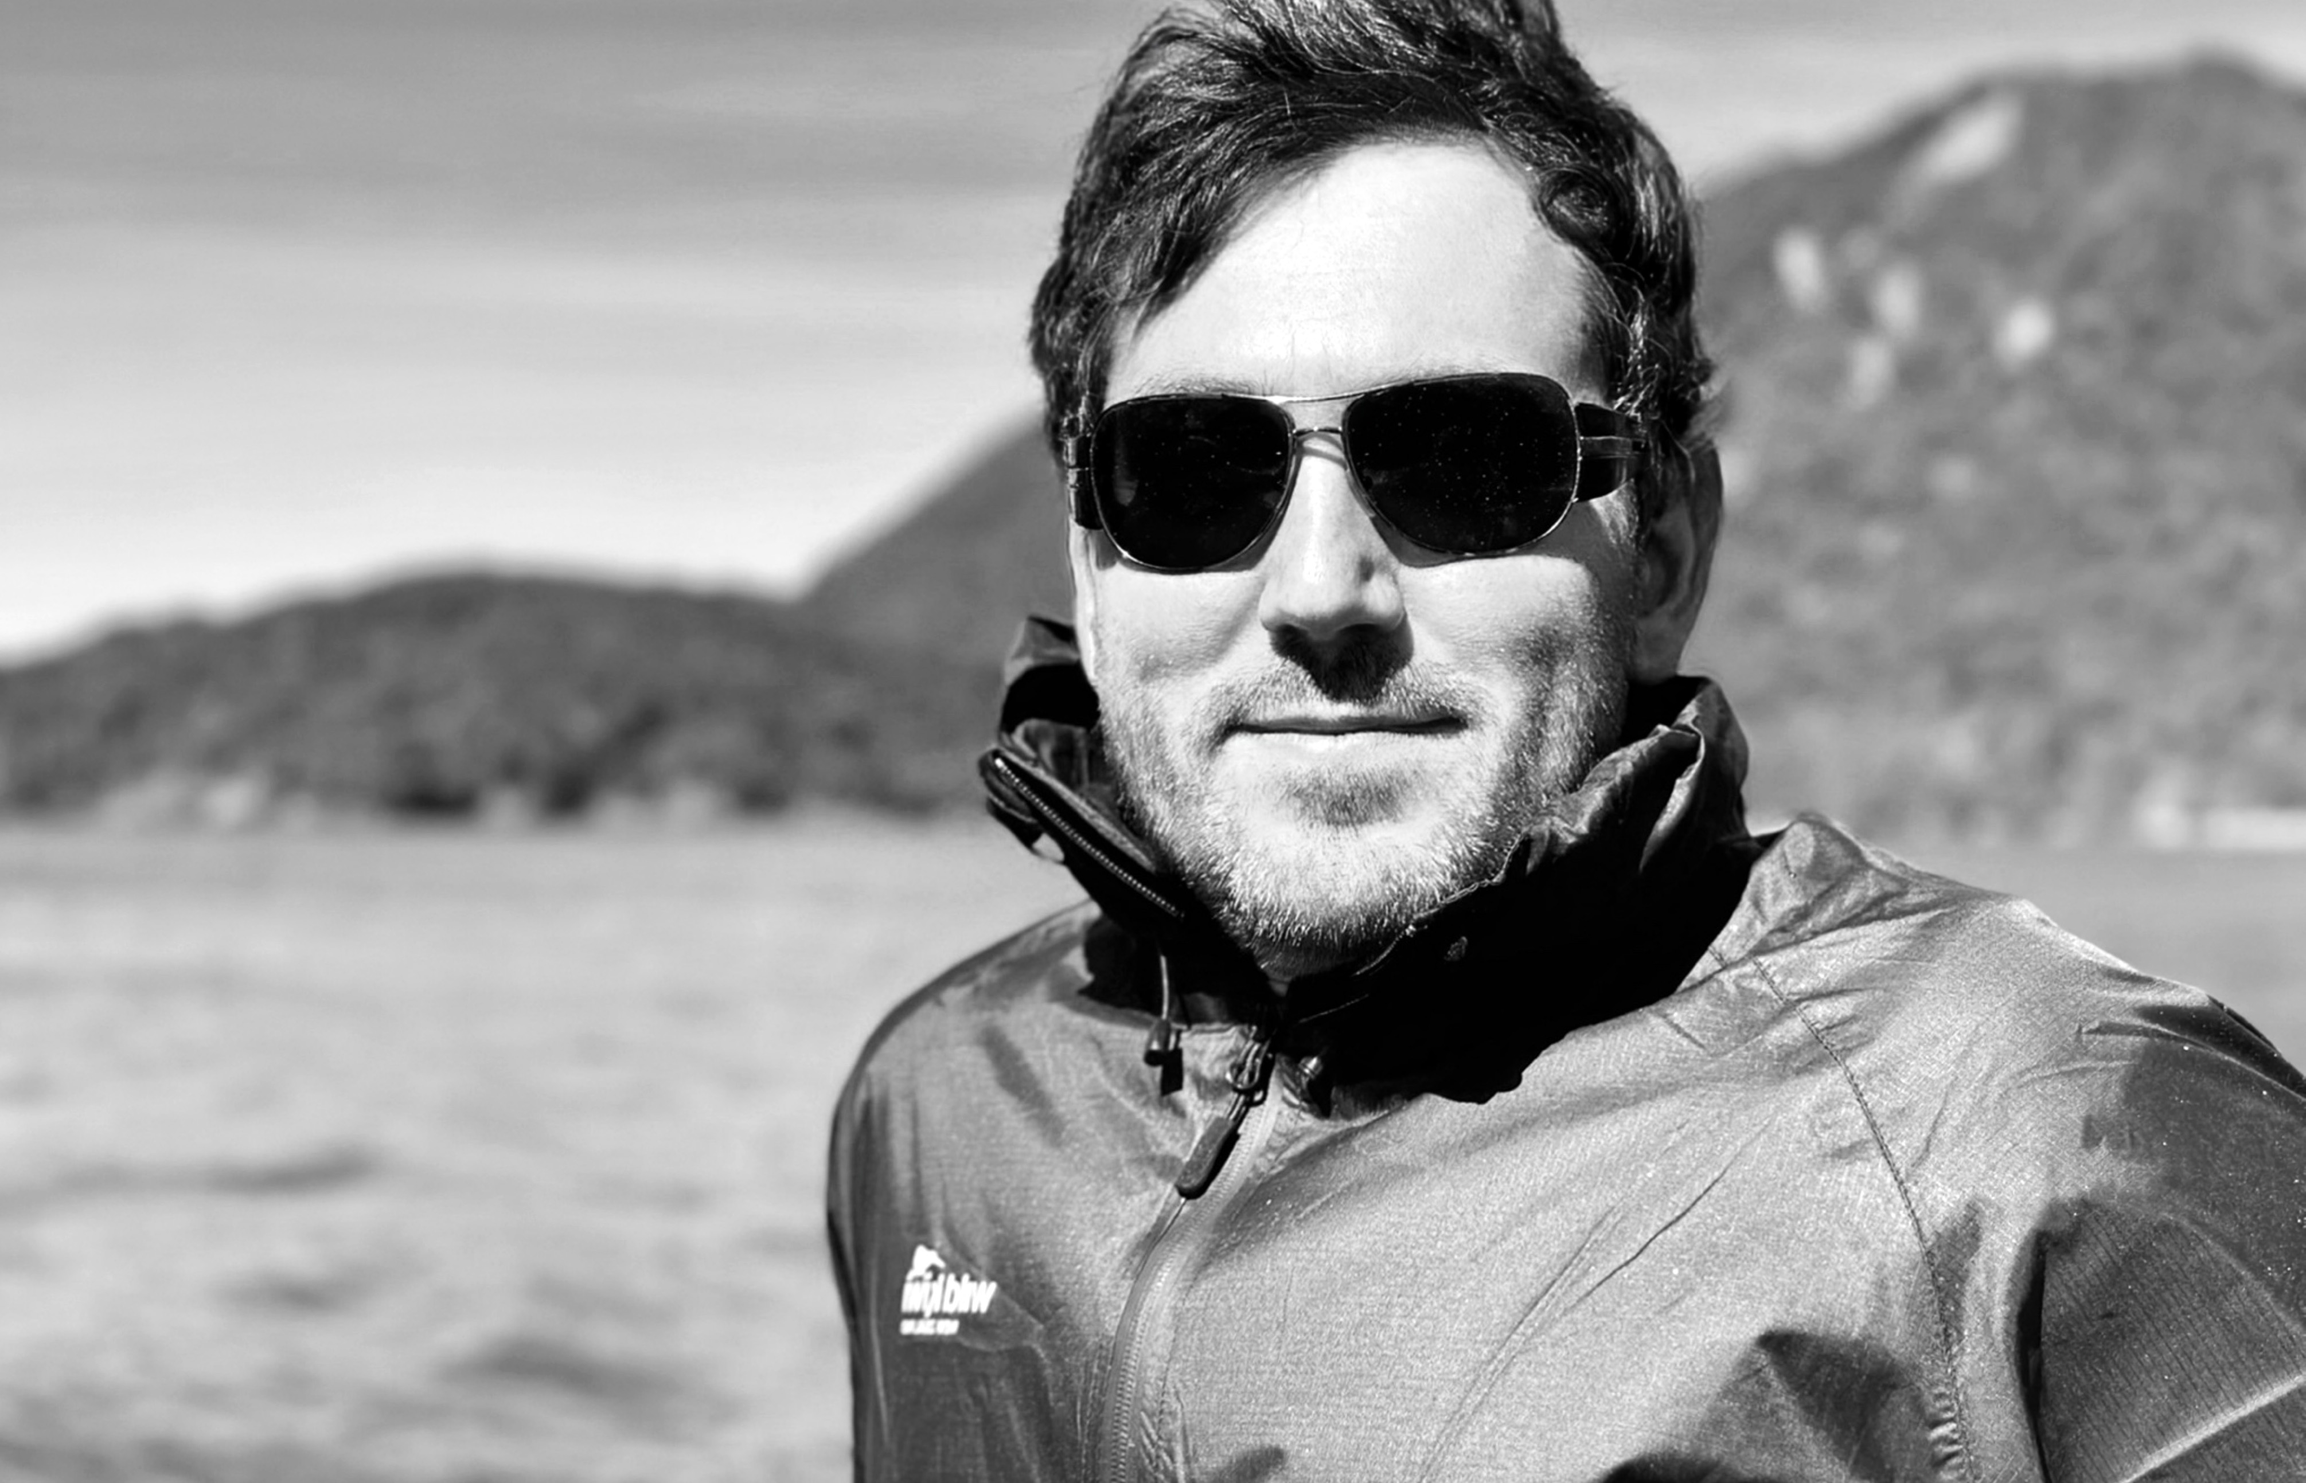
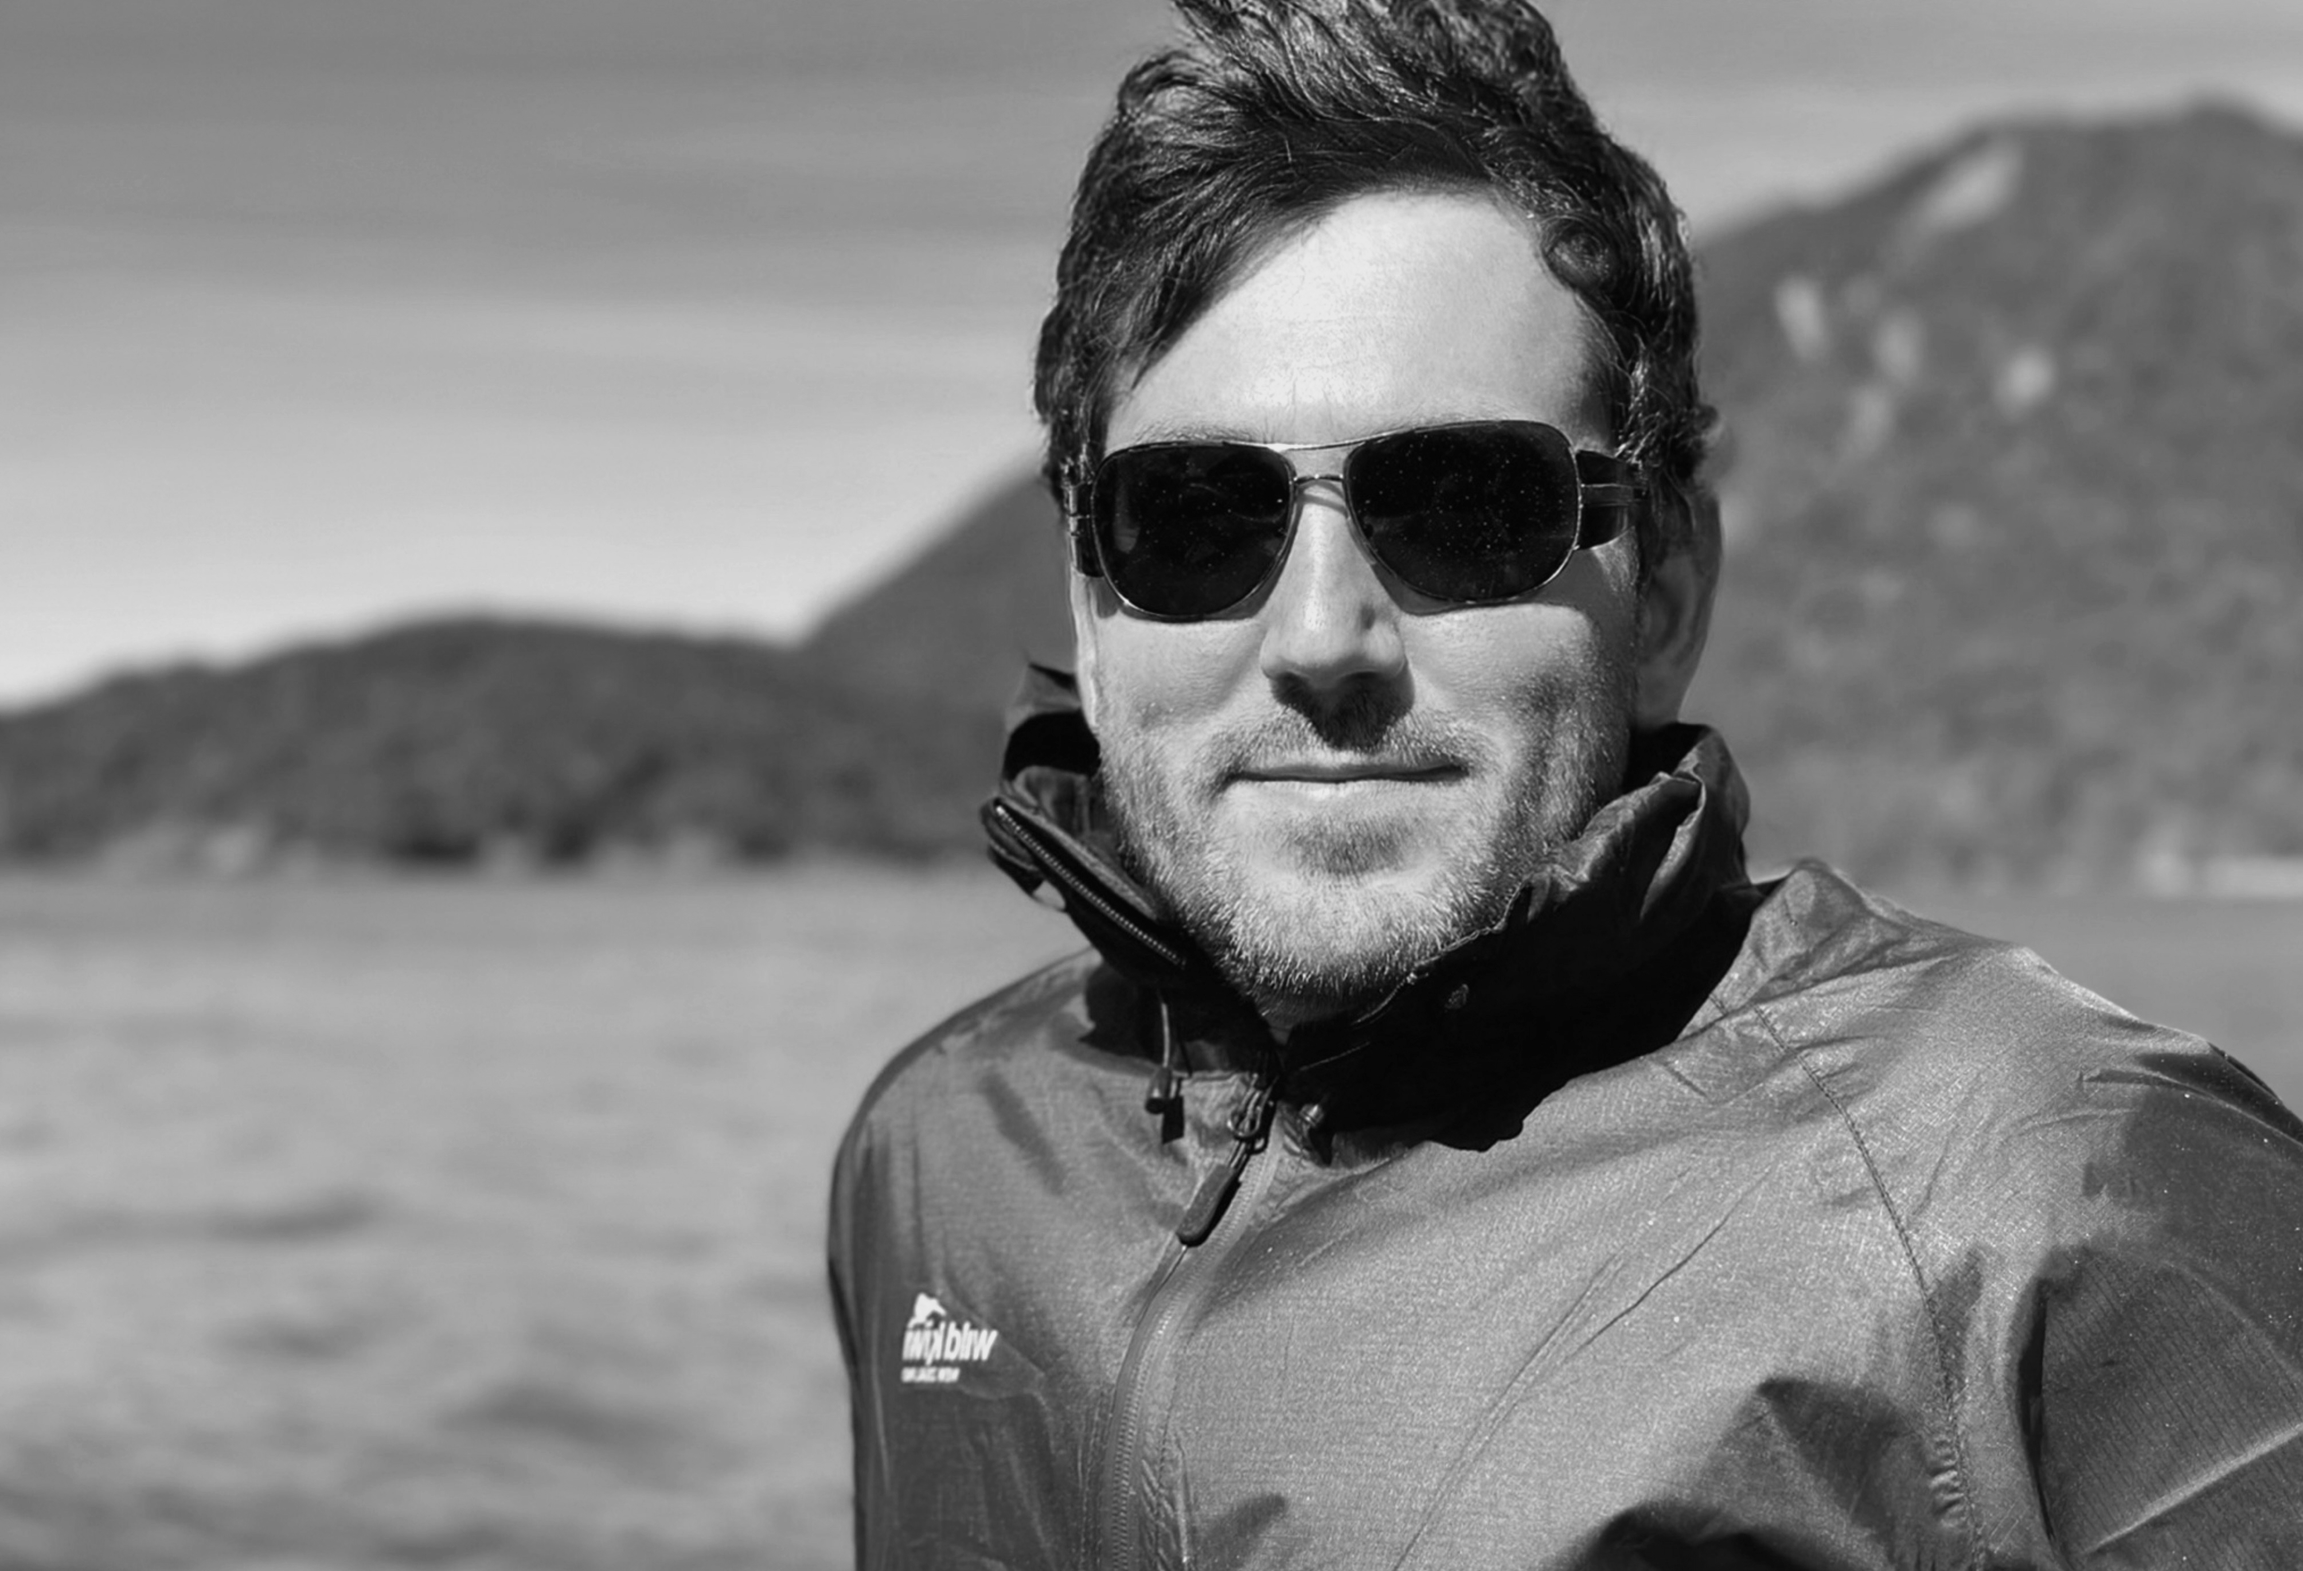
upload

diff --git a/index.html b/index.html
@@ -175,7 +175,7 @@ Free for personal and commercial use under the CCA 3.0 license (html5up.net/lice
               </p>
             </div>
             <span class="image object dani-pic">
-              <img alt="" src="images/dani.jpg"/>
+              <img alt="" src="images/dani2.jpg"/>
             </span>
           </section>
           <!-- Content -->
